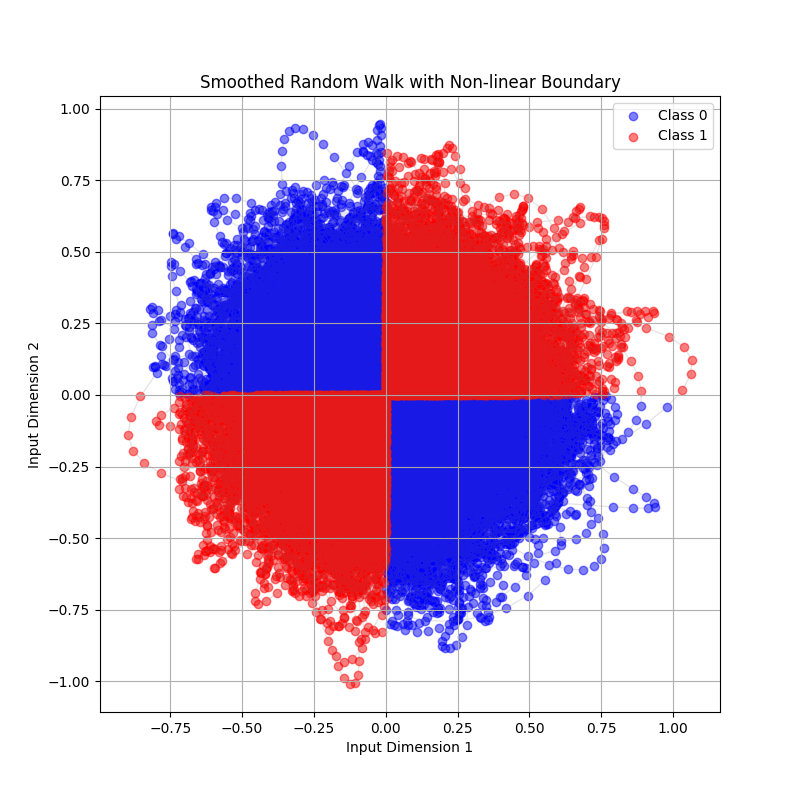
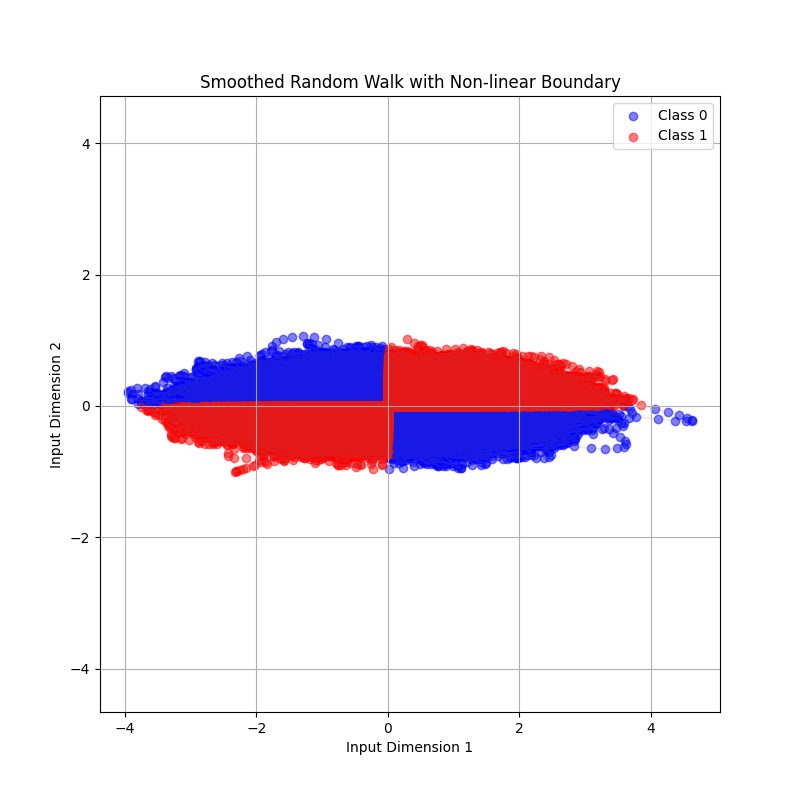
一旦まし

diff --git a/src/Gaussian.py b/src/Gaussian.py
@@ -12,22 +12,19 @@ if __name__ == "__main__":
     # ---------------------------------------------------------
     # 設定
     # ---------------------------------------------------------
-    Nneuron = 100   
+    Nneuron = 20   
     Nx = 2
     Nclasses = 2        
     
     leak = 50       
     dt = 0.001      
-
-    epsr = 0.5
-    epsf = 0.05  
     
-    alpha = 0.18    
+    alpha = 0.20    
     beta = 1 / 0.9  
     mu = 0.02 / 0.9
     
     Thresh = 0.5
-    lr_readout = 0.0005
+    lr_readout = 0.002
     
     # 保存先設定
     timestamp = datetime.now().strftime("%Y%m%d_%H%M%S(Gaussian_exp)")
@@ -42,14 +39,14 @@ if __name__ == "__main__":
     # ---------------------------------------------------------
     print("Preparing Data...")
 
-    X, y = appssian.generate_continuous_shift_dataset(n_train=100000, n_test=100000, nx=2, sigma=5, seed=30,
-                                      train_params={'mean': [1.0, 0.0], 'std': [2.0, 1.0]},
-                                      test_params={'mean': 0.0, 'std': 1.0})
+    X, y = appssian.generate_continuous_shift_dataset(n_train=400000, n_test=400000, nx=2, sigma=5, seed=30,
+                                      train_params={'mean': [0.0, 0.0], 'std': [1.0, 4.0]},
+                                      test_params={'mean': [0.0, 0.0], 'std': [4.0, 1.0]})
 
-    X_train = X[:100000]
-    y_train = y[:100000]
-    X_test = X[100000:]
-    y_test = y[100000:]
+    X_train = X[:400000]
+    y_train = y[:400000]
+    X_test = X[400000:]
+    y_test = y[400000:]
     # ---------------------------------------------------------
     # Set 1: Learning
     # ---------------------------------------------------------
@@ -58,8 +55,8 @@ if __name__ == "__main__":
 
     # 戻り値の最後に final_states_1 を受け取る
     acc_hist_1, spk_t_1, spk_i_1, F_set1, C_set1, W_out_set1, b_out_set1, mem_var_1, final_states_1 = appssian.test_train_continuous(
-        F_initial, C_initial, W_out_initial, b_out_initial, X_train, y_train, Nneuron, Nx, Nclasses, dt, leak, Thresh, epsf, epsr, alpha, beta, mu,
-        retrain=True, Gain=8000, lr_readout=lr_readout, init_states=None # 最初は指定なし
+        F_initial, C_initial, W_out_initial, b_out_initial, X_train, y_train, Nneuron, Nx, Nclasses, dt, leak, Thresh, alpha, beta, mu,
+        retrain=True, Gain=200, lr_readout=lr_readout, epsr=0.0001, epsf=0.00001, init_states=None # 最初は指定なし
     )
     print(len(acc_hist_1))
     
@@ -70,8 +67,8 @@ if __name__ == "__main__":
 
     # init_states に Set 1 の終わりの状態を渡す
     acc_hist_2, spk_t_2, spk_i_2, *_, mem_var_2, final_states_2 = appssian.test_train_continuous(
-        F_set1, C_set1, W_out_set1, b_out_set1, X_test, y_test, Nneuron, Nx, Nclasses, dt, leak, Thresh, epsf, epsr, alpha, beta, mu,
-        retrain=True, Gain=8000, lr_readout=lr_readout, init_states=final_states_1 # ★ここで引き継ぎ！
+        F_set1, C_set1, W_out_set1, b_out_set1, X_test, y_test, Nneuron, Nx, Nclasses, dt, leak, Thresh, alpha, beta, mu,
+        retrain=True, Gain=200, lr_readout=lr_readout, epsr=0.001, epsf=0.0001, init_states=final_states_1 # ★ここで引き継ぎ！
     )
     print(len(acc_hist_2))
 
@@ -110,7 +107,7 @@ if __name__ == "__main__":
     plt.figure(figsize=(10, 6))
     
     # --- 移動平均の計算 ---
-    window_size = 2000  # 平均を取る範囲 (この数値を大きくするとより滑らかになります)
+    window_size = 1000  # 平均を取る範囲 (この数値を大きくするとより滑らかになります)
     if len(full_acc) >= window_size:
         # 移動平均フィルタの作成
         b = np.ones(window_size) / window_size

diff --git a/app/appGaussian.py b/app/appGaussian.py
@@ -131,8 +131,8 @@ def generate_continuous_shift_dataset(n_train=5000, n_test=5000, nx=2, sigma=30,
 
 def test_train_continuous(F_init, C_init, W_out, b_out, X_data, y_data, 
                           Nneuron, Nx, Nclasses, dt, leak, Thresh, 
-                          epsf, epsr, alpha, beta, mu, retrain, Gain=1,
-                          lr_readout=0.008,
+                          alpha, beta, mu, retrain, Gain=1,
+                          lr_readout=0.008, epsr=0.005, epsf=0.0005,
                           init_states=None):
     
     # 時間ステップ総数 (Continuous time steps)
